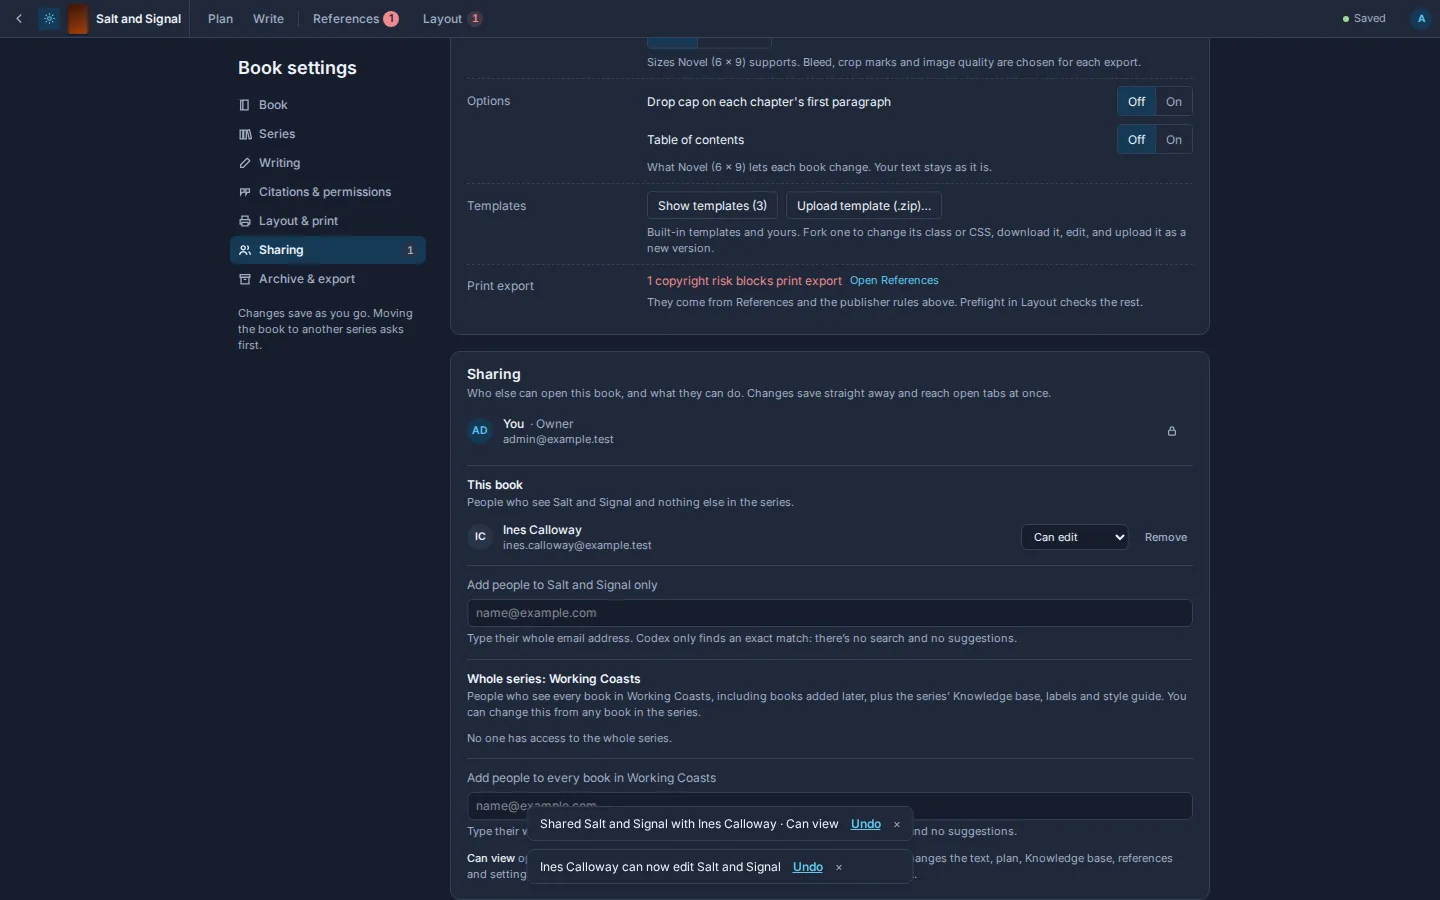
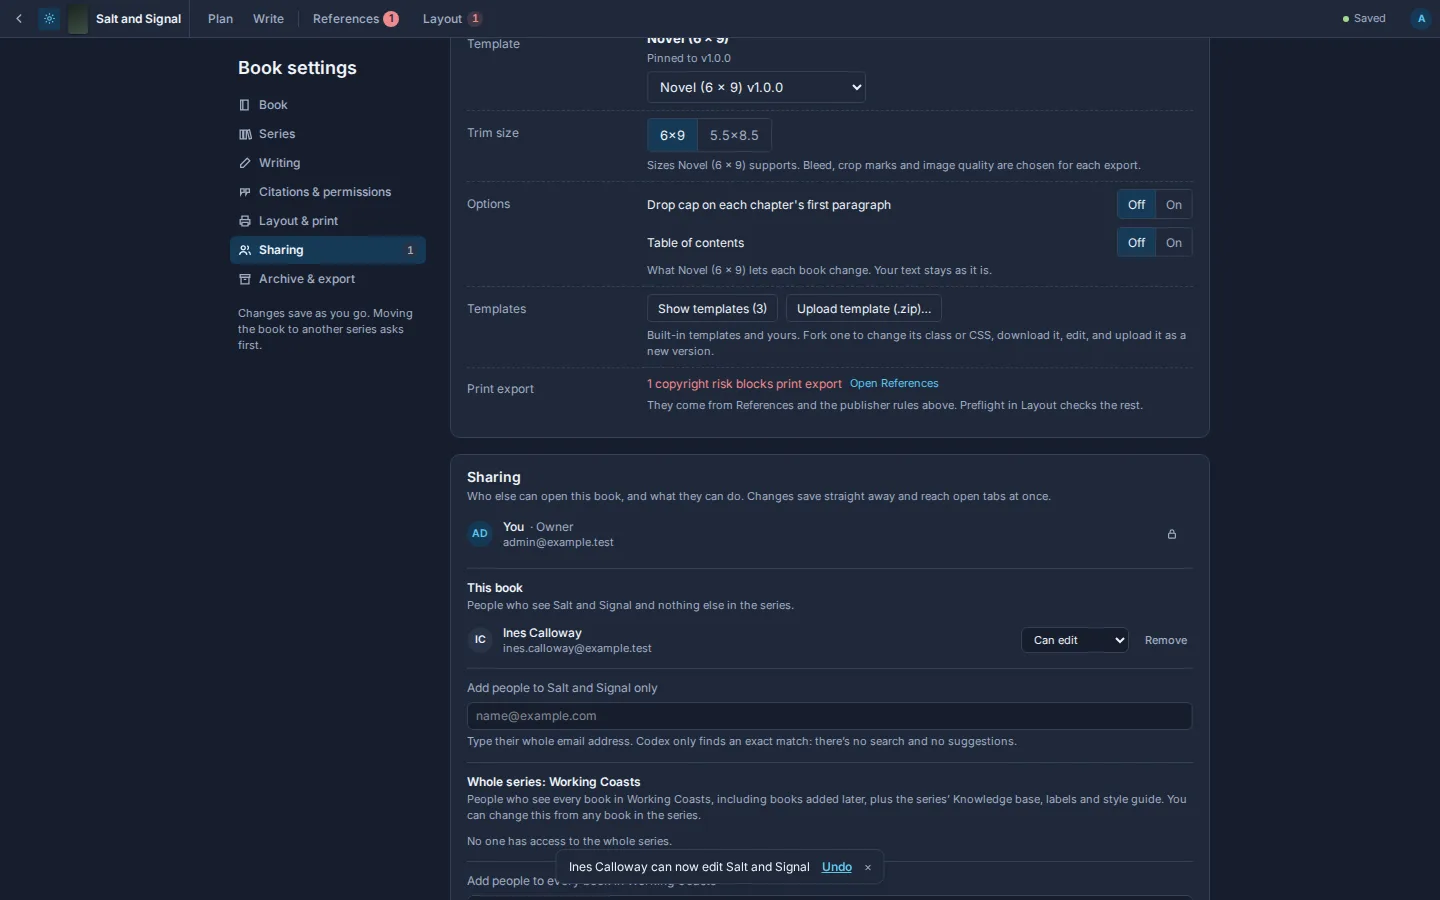
CDX-30: Complete Using the app follow-up tasks (#8)
* CDX-126 Capture removal of a Related link

* CDX-142 Clarify stopping a draft

* CDX-113 Add account and Library step captures

* CDX-113 Show the theme command

* CDX-113 Capture account and related link states

* CDX-113 Capture the theme command

* CDX-144 Correct References boundary details

* CDX-136 Clarify restore and capture Library search

* CDX-159 Exercise live sharing updates

* CDX-158 Show the sharing match and role change

* CDX-159 Check the viewer editor access

* CDX-158 Capture corrected sharing screens

* CDX-161 Clarify removal with series access

* CDX-134 Correct the label picker caption

* CDX-134 Keep screenshots when capture fails

---------

diff --git a/scripts/shots/specs/ui-sharing.ts b/scripts/shots/specs/ui-sharing.ts
@@ -1,5 +1,6 @@
 import type { Locator, Page } from "playwright";
-import type { SeedResult, ShotSpec } from "../types.ts";
+import type { AdminSession, SeedResult, ShotSpec } from "../types.ts";
+import { signInViewer } from "../viewer.ts";
 
 /** Sharing a book: Book settings, Sharing card of Salt and Signal. Ines Calloway starts with Can view on the book. */
 
@@ -47,6 +48,68 @@ async function addViewer(page: Page, ctx: SeedResult, role: "view" | "comment" |
 
 export const shots: ShotSpec[] = [
   {
+    name: "ui-sharing-live-access",
+    route,
+    steps: async (page, ctx) => {
+      const origin = new URL(page.url()).origin;
+      const cookie = (await page.context().cookies(origin))
+        .filter((c) => c.name.startsWith("codex.auth"))
+        .map((c) => `${c.name}=${c.value}`).join("; ");
+      const admin: AdminSession = {
+        baseUrl: origin,
+        cookie,
+        api: (method, path, body) => fetch(`${origin}${path}`, {
+          method,
+          headers: { cookie, "x-codex-client": "docs", ...(body === undefined ? {} : { "content-type": "application/json" }) },
+          body: body === undefined ? undefined : JSON.stringify(body),
+        }),
+      };
+      const viewer = await signInViewer(admin, ctx.viewer.id);
+      const browser = page.context().browser();
+      if (!browser) throw new Error("The viewer needs a browser context.");
+      const second = await browser.newContext({ baseURL: origin });
+      try {
+        await second.addCookies(viewer.cookie.split("; ").map((pair) => {
+          const i = pair.indexOf("=");
+          return { name: pair.slice(0, i), value: pair.slice(i + 1), url: origin };
+        }));
+        const tab = await second.newPage();
+        const joined = new Promise<void>((resolve) => {
+          tab.on("websocket", (socket) => {
+            let invocationId: string | undefined;
+            socket.on("framesent", ({ payload }) => {
+              for (const record of String(payload).split("\x1e").filter(Boolean)) {
+                const message = JSON.parse(record) as { target?: string; invocationId?: string };
+                if (message.target === "JoinBook") invocationId = message.invocationId;
+              }
+            });
+            socket.on("framereceived", ({ payload }) => {
+              for (const record of String(payload).split("\x1e").filter(Boolean)) {
+                const message = JSON.parse(record) as { type?: number; invocationId?: string };
+                if (invocationId && message.type === 3 && message.invocationId === invocationId) resolve();
+              }
+            });
+          });
+        });
+        await tab.goto(`/books/${ctx.bookIds.saltAndSignal}/write`);
+        await tab.getByTestId("shell-role-chip").waitFor();
+        const scene = tab.getByTestId(`write-scene-${ctx.sceneIds["1.1"]}`);
+        await scene.locator('[data-testid="prose-editor"][contenteditable="false"]').waitFor();
+        await joined;
+        await openSharing(page);
+        await page.getByTestId("settings-sharing-role").first().selectOption("write");
+        await tab.getByText("You can edit this book now. Typing works again.").waitFor();
+        await tab.getByTestId("shell-role-chip").waitFor({ state: "detached" });
+        await scene.locator('[data-testid="prose-editor"][contenteditable="true"]').waitFor();
+        await page.getByTestId("settings-sharing-remove").first().click();
+        await tab.getByTestId("shell-library-page").waitFor();
+        await tab.getByText(/stopped sharing.*with you/).waitFor();
+      } finally {
+        await second.close();
+      }
+    },
+  },
+  {
     name: "ui-sharing-overview",
     route,
     steps: openSharing,
@@ -67,6 +130,7 @@ export const shots: ShotSpec[] = [
       await clearToasts(page);
       await lookUp(page, ctx.viewer.email, "settings-sharing-match");
       await page.getByTestId("settings-sharing-match-role").first().selectOption("comment");
+      await page.getByTestId("settings-sharing-match").first().scrollIntoViewIfNeeded();
     },
   },
   {
@@ -82,6 +146,7 @@ export const shots: ShotSpec[] = [
     route,
     steps: async (page, ctx) => {
       await addViewer(page, ctx, "view");
+      await page.getByText("Shared Salt and Signal with Ines Calloway · Can view").first().waitFor();
       await clearToasts(page);
       await page.getByTestId("settings-sharing-role").first().selectOption("write");
       await page.getByText("Ines Calloway can now edit Salt and Signal").first().waitFor();

diff --git a/scripts/shots/specs/ui-navigation.ts b/scripts/shots/specs/ui-navigation.ts
@@ -4,6 +4,31 @@ const unknownBookId = "00000000-0000-0000-0000-000000000000";
 
 export const shots: ShotSpec[] = [
   {
+    name: "ui-navigation-theme",
+    route: "/",
+    steps: async (page) => {
+      await page.getByTestId("library-new-book").waitFor();
+      for (let i = 0; i < 2; i++) {
+        await page.keyboard.press("Control+k");
+        await page.getByTestId("library-palette-input").fill("Toggle theme");
+        await page.getByTestId("library-palette-action-theme").click();
+        await page.getByTestId("shell-command-palette").waitFor({ state: "detached" });
+      }
+      await page.keyboard.press("Control+k");
+      await page.getByTestId("library-palette-input").fill("Toggle theme");
+      await page.getByTestId("library-palette-action-theme").waitFor();
+    },
+  },
+  {
+    name: "ui-navigation-search",
+    route: "/",
+    steps: async (page, ctx) => {
+      await page.getByTestId("shell-search-box").fill("Salt");
+      await page.waitForURL(/\?q=Salt/);
+      await page.getByTestId(`shell-series-stack-${ctx.seriesId}`).waitFor();
+    },
+  },
+  {
     name: "ui-navigation-overview",
     route: (ctx) => `/#series=${ctx.seriesId}`,
     steps: async (page, ctx) => {

diff --git a/scripts/shots/specs/ui-knowledge-base.ts b/scripts/shots/specs/ui-knowledge-base.ts
@@ -381,6 +381,20 @@ export const shots: ShotSpec[] = [
     },
   },
   {
+    name: "ui-knowledge-base-related-removed",
+    route: entryRoute("Edith Marrow"),
+    steps: async (page, ctx) => {
+      await openEntry(page, ctx, "Edith Marrow");
+      await page.getByTestId("kb-related-add").click();
+      await page.getByTestId(`kb-related-option-${ctx.entryIds["Tobias Venn"]}`).click();
+      const chip = page.getByTestId(`kb-related-chip-${ctx.entryIds["Tobias Venn"]}`);
+      await chip.waitFor();
+      await chip.hover();
+      await page.getByTestId(`kb-related-remove-${ctx.entryIds["Tobias Venn"]}`).click();
+      await chip.waitFor({ state: "detached" });
+    },
+  },
+  {
     name: "ui-knowledge-base-move-to-series",
     route: entryRoute("Fresnel lens"),
     steps: async (page, ctx) => {

diff --git a/scripts/shots/specs/ui-account.ts b/scripts/shots/specs/ui-account.ts
@@ -28,6 +28,15 @@ export const shots: ShotSpec[] = [
     },
   },
   {
+    name: "ui-account-name-saved",
+    route: "/account",
+    steps: async (page) => {
+      await page.getByTestId("auth-account-display-name").fill("Alex");
+      await page.getByTestId("auth-account-save-name").click();
+      await page.getByTestId("auth-account-name-saved").waitFor();
+    },
+  },
+  {
     name: "ui-account-sign-in",
     route: "/login",
     steps: async (page) => {
